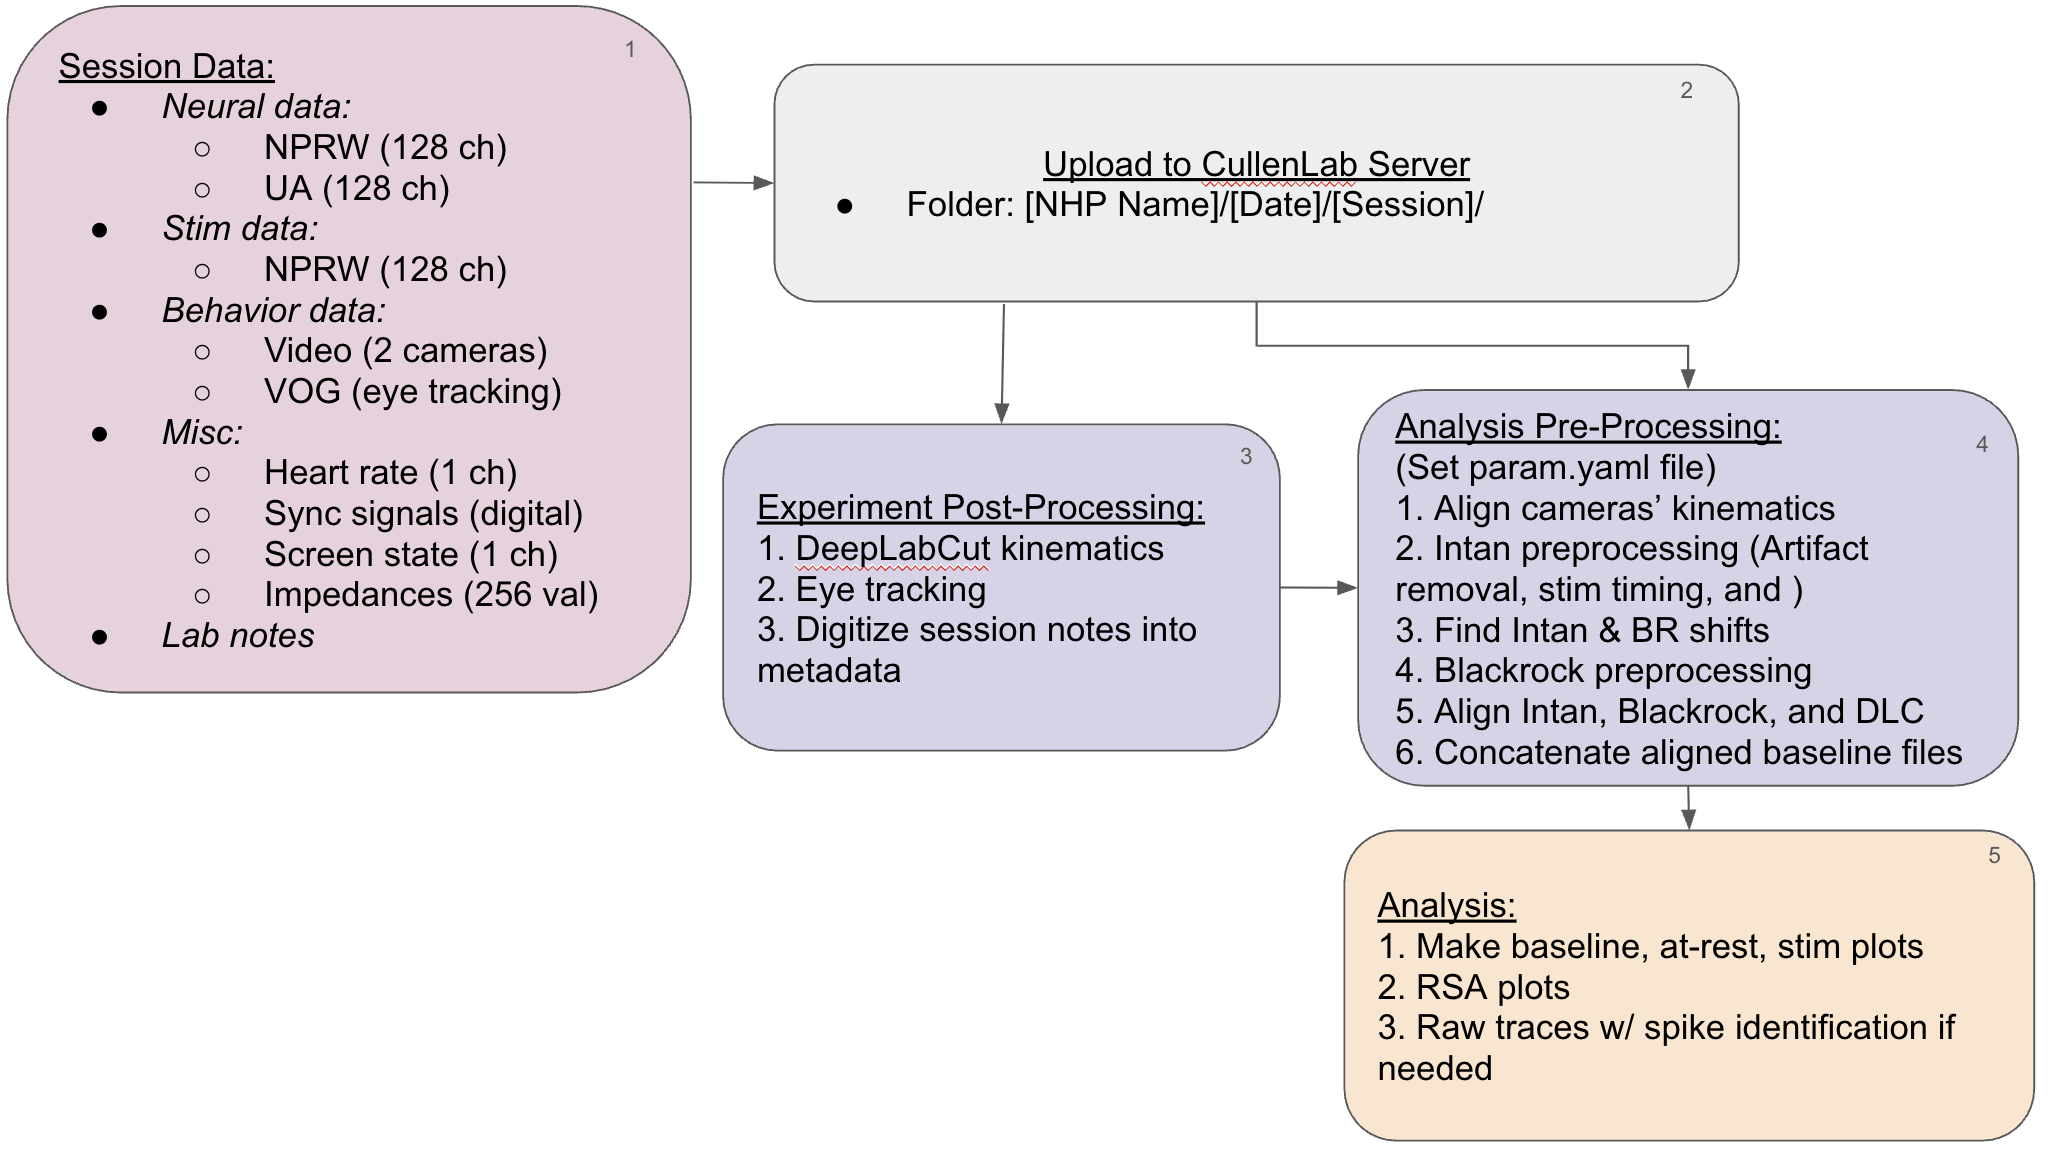
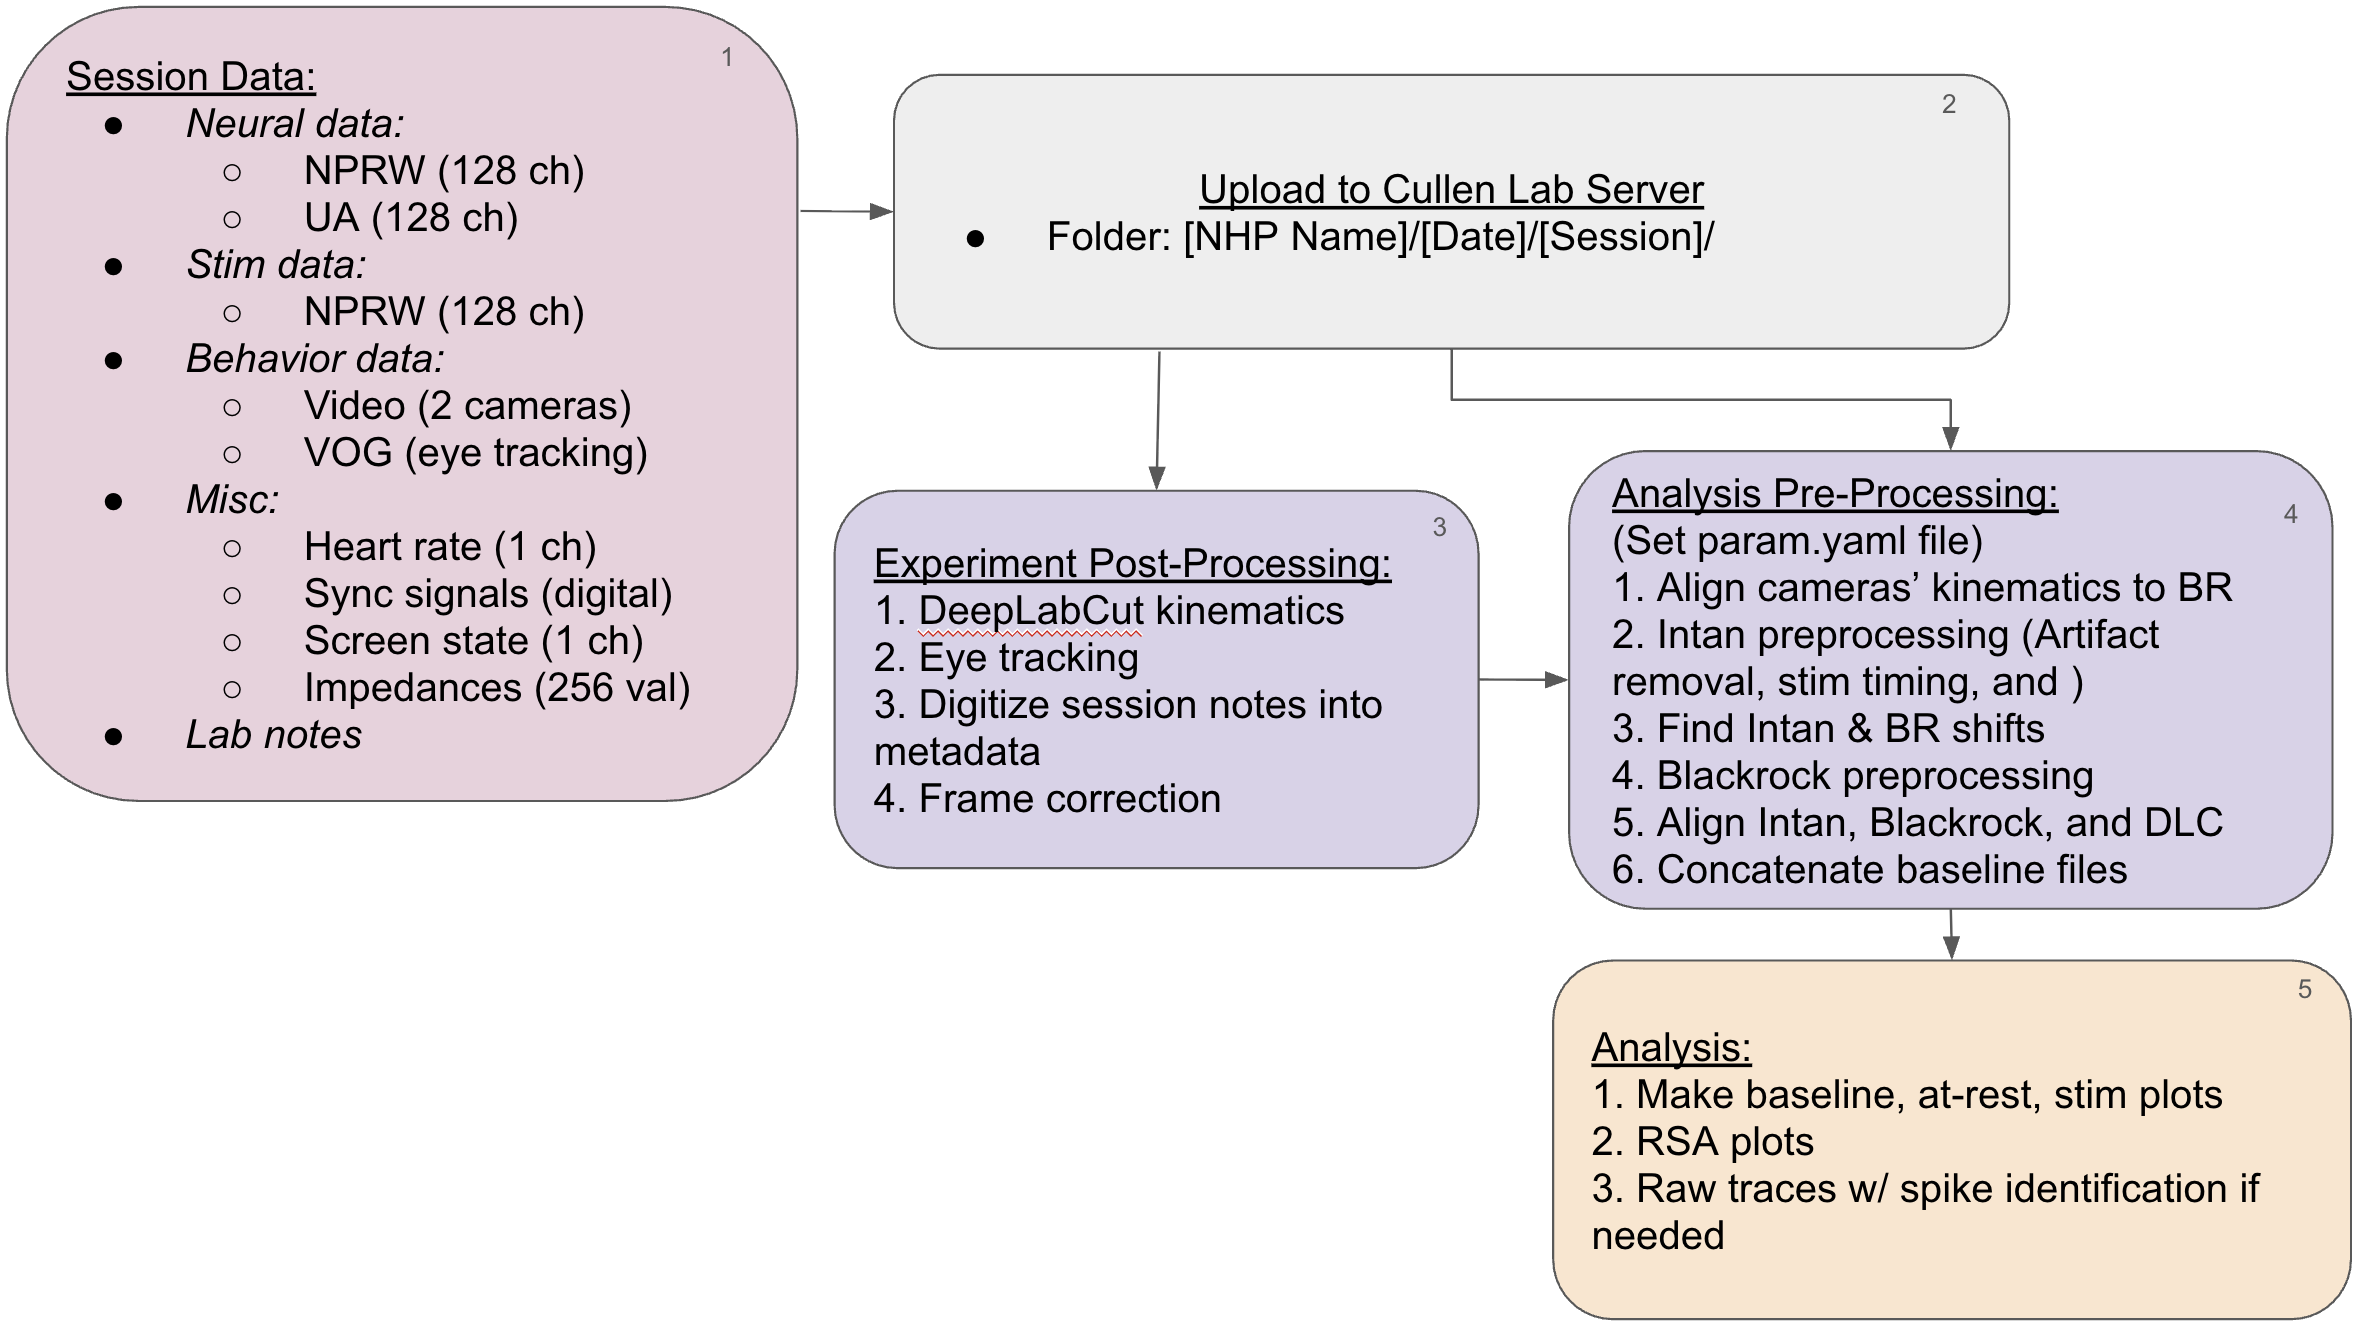
adding cv2

diff --git a/scripts/analyze_and_plot_FR_UA_NPRW.py b/scripts/analyze_and_plot_FR_UA_NPRW.py
@@ -6,9 +6,9 @@ import subprocess
 from pathlib import Path
 
 BATCH_SCRIPTS = [
-    # "align_dlc_two_cams_to_br.py",
-    # "NPRW_Intan_analysis_threshold.py",
-    # "compute_br_to_intan_shifts.py",
+    "align_dlc_two_cams_to_br.py",
+    "NPRW_Intan_analysis_threshold.py",
+    "compute_br_to_intan_shifts.py",
     "UA_BR_analysis_threshold.py",
     "make_aligned_npz_from_shifts_with_behv.py",
     "create_aligned_combined_baseline.py",

diff --git a/batch_scripts/make_aligned_npz_from_shifts_with_behv.py b/batch_scripts/make_aligned_npz_from_shifts_with_behv.py
@@ -218,6 +218,7 @@ def main():
         rows = list(rdr)
 
     br2video = _load_br_to_video_map(METADATA_CSV)
+    br_to_intan = rcp.get_metadata_mapping(METADATA_CSV, "BR_File", "Intan_File")
 
     if not rows:
         raise SystemExit("[error] shifts CSV has no rows")

diff --git a/batch_scripts/create_aligned_combined_baseline.py b/batch_scripts/create_aligned_combined_baseline.py
@@ -1,5 +1,3 @@
-#!/usr/bin/env python3
-from __future__ import annotations
 from pathlib import Path
 import re, sys, csv
 import numpy as np

diff --git a/batch_scripts/UA_BR_analysis_threshold.py b/batch_scripts/UA_BR_analysis_threshold.py
@@ -1,4 +1,3 @@
-from __future__ import annotations
 from pathlib import Path
 from typing import Optional
 import gc

diff --git a/README.md b/README.md
@@ -5,12 +5,12 @@ This repository contains the analysis pipeline for preprocessing, quantifying, a
 
 ![alt text](https://github.com/Raynor-Cerebellum-Project/RCP_analysis/blob/main/docs/pipeline_schematic.png "pipeline_schematic")
 
+[Summary of recorded signals](https://docs.google.com/document/d/1C4-xSWL8n7P_mMrYqlUxQR6blz9WIHDU4B7O9bxhMnE/edit?tab=t.0)
+
 TODO:
 - Switch to hdf5
 - Calculation of behavioral metrics
 - Artifact correction using template subtraction of stimulation artifacts
-
-[Summary of recorded signals](https://docs.google.com/document/d/1C4-xSWL8n7P_mMrYqlUxQR6blz9WIHDU4B7O9bxhMnE/edit?tab=t.0)
 
 [Example final figures: Bert's plots for headturn](https://docs.google.com/presentation/d/1z6fLBiO8Wbell_FSsJK0Mcj66stKMJZmZtJu6tcY7FA/edit?slide=id.g35fb40ee04d_0_42#slide=id.g35fb40ee04d_0_42)
 
@@ -135,34 +135,32 @@ TODO:
 3. Preprocess UA data (high-pass filter)  
 4. Build bundles for data other then neural data (save as .npz file) (2 sync digital channels in .ns5 and other .ns2 files) (`br_preproc.build_blackrock_bundle`) - TODO: Convert to NWB format
 5. Save per-session preprocessed data
-New pipeline using thresholding:
-6. Using thresholding to detect spikes
-7. **TODO** Use PCA to separate MUA within a cluster
-8. FR estimation
-12. Use as template to align Intan with BR using .ns5 sync pulses (two from BR side)
-13. Use as template to align DLC kinematics file using the .ns5 sync pulses
+6. Thresholding to detect spikes
+7. FR estimation
+8. Use as template to align Intan with BR using .ns5 sync pulses (two from BR side)
+9. Use as template to align DLC kinematics file using the .ns5 sync pulses
 
-Old pipeline envisioned:
-6. Concatenate sessions for sorting
-7. Run Mountainsort5 (MS5) with UA mapping (per-channel sorting)
-8. Export results in Phy format
-9. Optional now: SLAy
-10. Separate by condition
-11. FR estimation
-12. Use as template to align Intan with BR using .ns5 sync pulses (two from BR side)
-13. Use as template to align DLC kinematics file using the .ns5 sync pulses
+**TODO** Use Mixture of Gaussians to separate MUA within a cluster
+TODO:
+1. Concatenate sessions for sorting
+2. Run Mountainsort5 (MS5) for UA
+3. Export results in Phy format
+4. Optional now: SLAy
+5. Separate by condition
+6. FR estimation after sorting
+7. Use as template to align Intan with BR using .ns5 sync pulses (two from BR side)
+8. Use as template to align DLC kinematics file using the .ns5 sync pulses
 
 ## 5. Behavioral Analysis and Stim timing Processing
 `batch_scripts/make_aligned_npz_from_shifts_with_behv.py`
-TODO: Need to convert from MATLAB
-TODO:
-1. DLC labeling and annotations
-2. Identify movement segments from DLC data
-3. Load stimulation timing from Intan
-4. Plot movement traces (how to align? based on velocity or based on stim timing?, try to plot baseline aligned by velocity first)
-5. Calculate movement metrics (Previously: Endpoint error, Absolute endpoint error, Variance (in velocity) after stim, Variance (in velocity) after endpoint, Max speed, Avg speed, Endpoint oscillation, FFTPower after endpoint)
-6. Calculate significance relative to baseline
-7. Plot bargraphs
+1. Concatenate sessions for sorting
+2. Run Mountainsort5 (MS5) for UA
+3. Export results in Phy format
+4. Optional now: SLAy
+5. Separate by condition
+6. FR estimation after sorting
+7. Use as template to align Intan with BR using .ns5 sync pulses (two from BR side)
+8. Use as template to align DLC kinematics file using the .ns5 sync pulses
 
 ## 6. Create aligned baseline
 `batch_scripts/create_aligned_combined_baseline.py`
@@ -170,7 +168,12 @@ TODO:
 ## 7. Make baseline and peri-stim plots
 `batch_scripts/NPRW_BEHV_UA_FR_plotting.py`
 
-
+TODO:
+3. Load stimulation timing from Intan
+4. Plot movement traces (how to align? based on velocity or based on stim timing?, try to plot baseline aligned by velocity first)
+5. Calculate movement metrics (Previously: Endpoint error, Absolute endpoint error, Variance (in velocity) after stim, Variance (in velocity) after endpoint, Max speed, Avg speed, Endpoint oscillation, FFTPower after endpoint)
+6. Calculate significance relative to baseline
+7. Plot bargraphs
 
 ---
 
